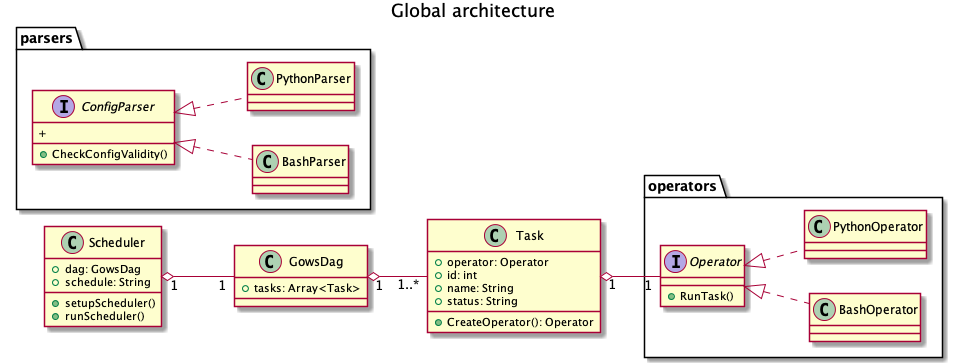
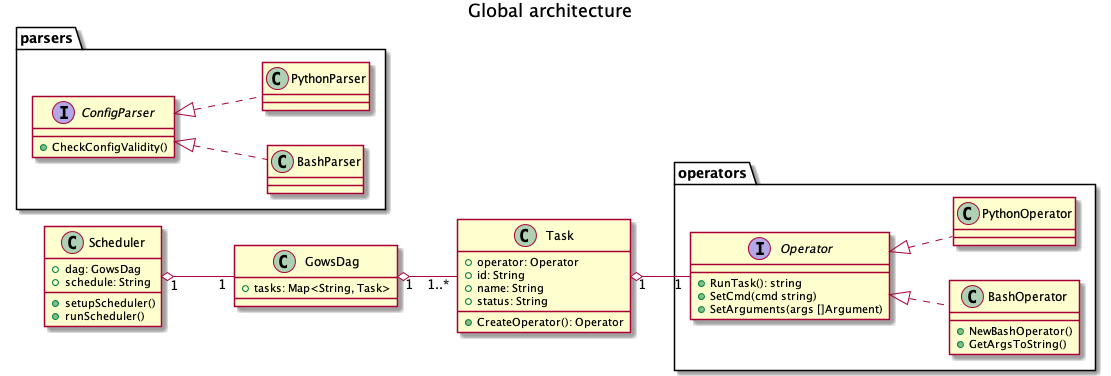
Implementation of bash_operator with unit testing, operator interface outside of the operator_factory

diff --git a/operators/bash_operator_test.go b/operators/bash_operator_test.go
@@ -1,0 +1,90 @@
+package operators
+
+import (
+	"testing"
+)
+
+func TestSetCmd(t *testing.T) {
+	bash := NewBashOperator()
+	cmdString := "some_cmd"
+	bash.SetCmd(cmdString)
+
+	if bash.Cmd != cmdString {
+		t.Errorf("The cmd was not properly set to the Cmd field of BashOperator")
+	}
+}
+
+func TestSetArguments(t *testing.T) {
+	bash := NewBashOperator()
+	args := []Argument{
+		{
+			Arg:   "-n",
+			Value: "some-value",
+		},
+		{
+			Arg:   "-f",
+			Value: "some-file",
+		},
+	}
+	bash.SetArguments(args)
+	if bash.Arguments[0] != args[0] && bash.Arguments[1] != args[1] {
+		t.Errorf("The arguments were not properly set to the Argument filed of BashOperator")
+	}
+}
+
+func TestArgsToString(t *testing.T) {
+	bash := NewBashOperator()
+	bash.SetArguments([]Argument{
+		{
+			Arg:   "-n",
+			Value: "some_name",
+		},
+		{
+			Arg:   "--file",
+			Value: "some_file",
+		},
+	})
+	expectedArgsToString := "-n some_name --file some_file"
+	actualArgsToString := bash.GetArgsToString()
+
+	if actualArgsToString != expectedArgsToString {
+		t.Errorf("The bash arguments were not properly stringified")
+	}
+}
+
+func TestArgsToStringNoValue(t *testing.T) {
+	bash := NewBashOperator()
+	bash.SetArguments([]Argument{
+		{
+			Arg:   "-n",
+			Value: "",
+		},
+		{
+			Arg:   "-f",
+			Value: "",
+		},
+	})
+	expectedValue := "-n -f"
+	actualValue := bash.GetArgsToString()
+
+	if actualValue != expectedValue {
+		t.Errorf("The bash arguments were not properly stringified")
+	}
+}
+
+func TestRunCmd(t *testing.T) {
+	bash := NewBashOperator()
+	cmd := "ls"
+	args := []Argument{
+		{
+			Arg:   "-all",
+			Value: "",
+		},
+	}
+	bash.SetCmd(cmd)
+	bash.SetArguments(args)
+	_, error := bash.RunTask()
+	if error != nil {
+		t.Errorf("An error occurs during the execution of the bash cmd")
+	}
+}

diff --git a/operators/bash_operator.go b/operators/bash_operator.go
@@ -1,29 +1,56 @@
 package operators
 
 import (
+	"errors"
 	"fmt"
 	"os/exec"
+	"strings"
 )
 
+type Argument struct {
+	Arg   string
+	Value string
+}
+
 type BashOperator struct {
-	Path      string `json:"path"`
-	Arguments []struct {
-		Arg   string `json:"arg"`
-		Value string `json:"value"`
-	} `json:"arguments"`
+	Cmd       string
+	Arguments []Argument
 }
 
 func NewBashOperator() *BashOperator {
 	return &BashOperator{}
 }
 
-func (b *BashOperator) RunTask() {
-	cmd := exec.Command("bash", b.Path)
+func (b *BashOperator) SetCmd(cmd string) {
+	b.Cmd = cmd
+}
+
+func (b *BashOperator) SetArguments(args []Argument) {
+	b.Arguments = args
+}
+
+func (b *BashOperator) GetArgsToString() string {
+	var argsString strings.Builder
+	for _, arg := range b.Arguments {
+		if arg.Arg != "" {
+			argsString.WriteString(" " + arg.Arg)
+		}
+		if arg.Value != "" {
+			argsString.WriteString(" " + arg.Value)
+		}
+	}
+	// Return the trimed stringified arguments
+	return strings.TrimSpace(argsString.String())
+}
+
+func (b *BashOperator) RunTask() (string, error) {
+	cmdString := b.Cmd + " " + b.GetArgsToString()
+	cmd := exec.Command("bash", "-c", cmdString)
 	stdout, err := cmd.Output()
+	fmt.Println(string(stdout))
 
 	if err != nil {
-		fmt.Println(err.Error())
-		return
+		return "", errors.New("Error occured during the script execution")
 	}
-	fmt.Println(string(stdout))
+	return string(stdout), nil
 }

diff --git a/operators/operator_factory.go b/operators/operator_factory.go
@@ -1,20 +1,10 @@
 package operators
 
 import (
-	"encoding/json"
 	"fmt"
 )
 
-type IOperator interface {
-	RunTask()
-}
-
-type Operator struct {
-	Name       string          `json:"name"`
-	Parameters json.RawMessage `json:"parameters"`
-}
-
-func NewOperator(operatorName string) (IOperator, error) {
+func NewOperator(operatorName string) (Operator, error) {
 	switch operatorName {
 	case "bash":
 		return NewBashOperator(), nil

diff --git a/gows.go b/gows.go
@@ -1,11 +1,18 @@
 package main
 
 import (
+	"fmt"
 	"gows/operators"
 )
 
 func main() {
 	operator, err := operators.NewOperator("bash")
+	operator.SetCmd("ls")
+	operator.SetArguments([]operators.Argument{
+		{Arg: "-all", Value: ""},
+	})
+	output, _ := operator.RunTask()
+	fmt.Println(output)
 
 	if err != nil {
 		panic(err)

diff --git a/operators/operator.go b/operators/operator.go
@@ -1,0 +1,7 @@
+package operators
+
+type Operator interface {
+	RunTask() (string, error)
+	SetCmd(cmd string)
+	SetArguments(args []Argument)
+}
